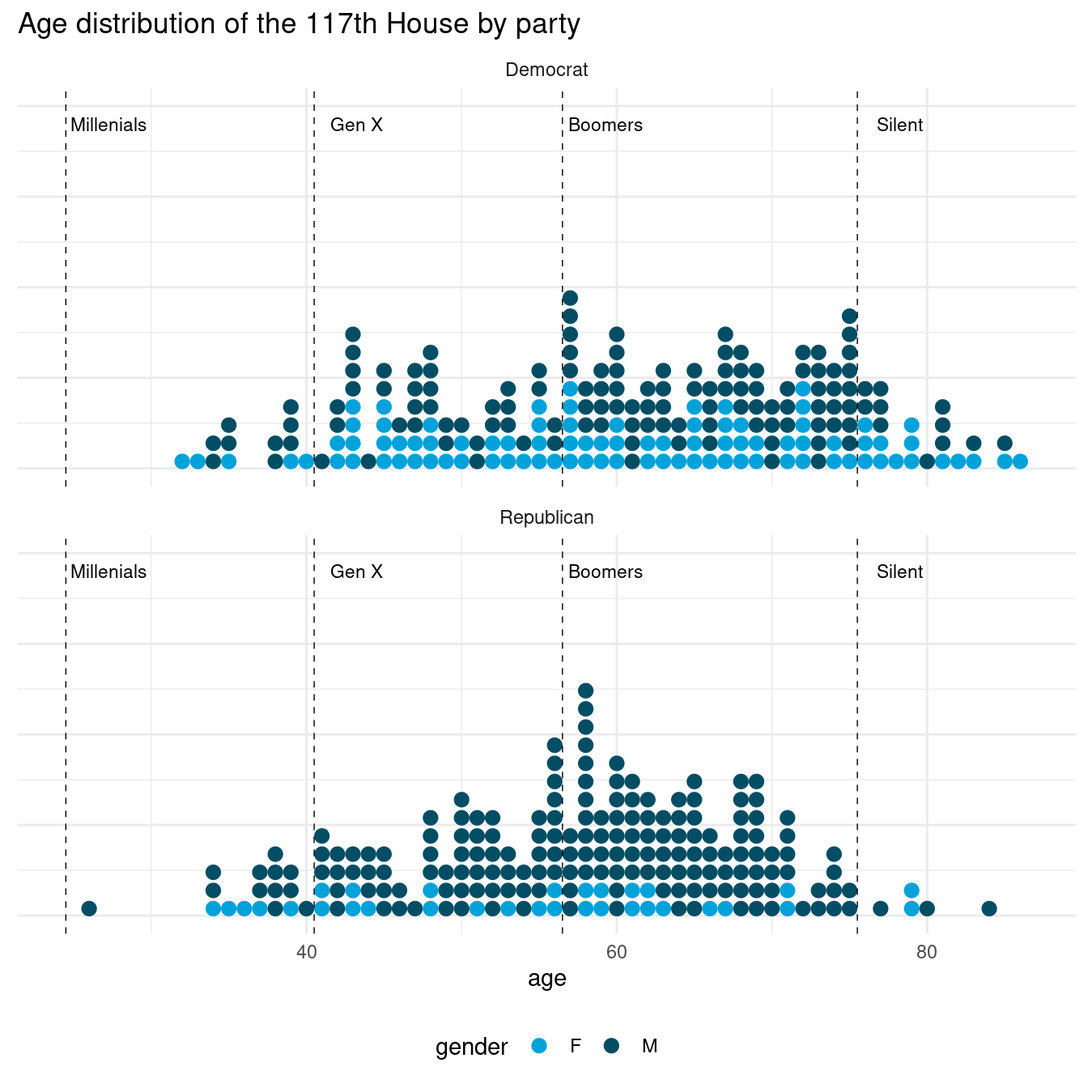
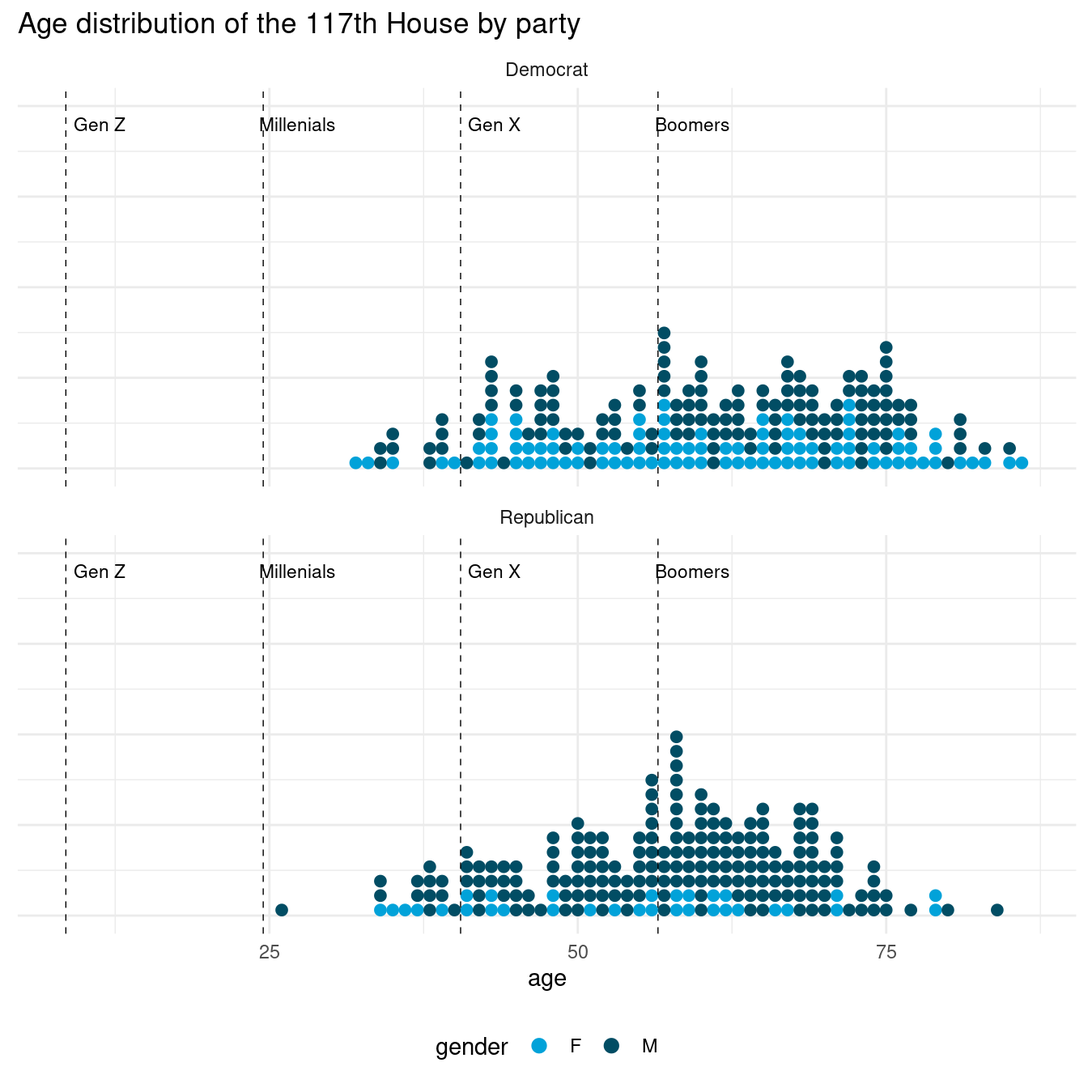
re

diff --git a/_site/posts/this-old-house/index.html b/_site/posts/this-old-house/index.html
@@ -123,9 +123,9 @@ code span.wa { color: #60a0b0; font-weight: bold; font-style: italic; } /* Warni
 <link rel="stylesheet" href="../../styles.css">
 <meta name="twitter:title" content="Jason Timm - this old house">
 <meta name="twitter:description" content="Generations in Congress">
-<meta name="twitter:image" content="https://www.jtimm.net/posts/this-old-house/preview2.png">
-<meta name="twitter:image-height" content="255">
-<meta name="twitter:image-width" content="1135">
+<meta name="twitter:image" content="https://www.jtimm.net/posts/this-old-house/preview1.png">
+<meta name="twitter:image-height" content="960">
+<meta name="twitter:image-width" content="1344">
 <meta name="twitter:card" content="summary_large_image">
 </head>
 
@@ -203,6 +203,7 @@ code span.wa { color: #60a0b0; font-weight: bold; font-style: italic; } /* Warni
   <ul>
   <li><a href="#current-us-lawmakers" id="toc-current-us-lawmakers" class="nav-link active" data-scroll-target="#current-us-lawmakers"> <span class="header-section-number">1</span> Current US lawmakers</a></li>
   <li><a href="#american-generations" id="toc-american-generations" class="nav-link" data-scroll-target="#american-generations"> <span class="header-section-number">2</span> American Generations</a></li>
+  <li><a href="#parliamentary-plot" id="toc-parliamentary-plot" class="nav-link" data-scroll-target="#parliamentary-plot"> <span class="header-section-number">3</span> Parliamentary Plot</a></li>
   </ul>
 </nav>
     </div>
@@ -214,7 +215,7 @@ code span.wa { color: #60a0b0; font-weight: bold; font-style: italic; } /* Warni
 
 <p><img src="preview2.png" class="preview-image img-fluid" style="width:100.0%"></p>
 <blockquote class="blockquote">
-<p>A quick look at age and generation distributions of members of the US House of Representatives.</p>
+<p>A quick look at age and generation distributions in the 117th US House of Representatives.</p>
 </blockquote>
 <hr>
 <section id="current-us-lawmakers" class="level2" data-number="1">
@@ -261,29 +262,35 @@ code span.wa { color: #60a0b0; font-weight: bold; font-style: italic; } /* Warni
 <section id="american-generations" class="level2" data-number="2">
 <h2 data-number="2" class="anchored" data-anchor-id="american-generations"><span class="header-section-number">2</span> American Generations</h2>
 <div class="cell">
-<div class="sourceCode cell-code" id="cb4"><pre class="sourceCode r code-with-copy"><code class="sourceCode r"><span id="cb4-1"><a href="#cb4-1" aria-hidden="true" tabindex="-1"></a>generation <span class="ot">&lt;-</span> <span class="fu">c</span>(<span class="st">'Greatest'</span>,</span>
-<span id="cb4-2"><a href="#cb4-2" aria-hidden="true" tabindex="-1"></a>                <span class="st">'Silent'</span>,</span>
-<span id="cb4-3"><a href="#cb4-3" aria-hidden="true" tabindex="-1"></a>                <span class="st">'Boomers'</span>,</span>
-<span id="cb4-4"><a href="#cb4-4" aria-hidden="true" tabindex="-1"></a>                <span class="st">'Gen X'</span>,</span>
-<span id="cb4-5"><a href="#cb4-5" aria-hidden="true" tabindex="-1"></a>                <span class="st">'Millenials'</span>,</span>
-<span id="cb4-6"><a href="#cb4-6" aria-hidden="true" tabindex="-1"></a>                <span class="st">'Gen Z'</span>,</span>
-<span id="cb4-7"><a href="#cb4-7" aria-hidden="true" tabindex="-1"></a>                <span class="st">'Post-Z'</span>)</span>
-<span id="cb4-8"><a href="#cb4-8" aria-hidden="true" tabindex="-1"></a></span>
-<span id="cb4-9"><a href="#cb4-9" aria-hidden="true" tabindex="-1"></a>start_yr <span class="ot">&lt;-</span> <span class="fu">c</span>(<span class="st">'1912-01-01'</span>,</span>
-<span id="cb4-10"><a href="#cb4-10" aria-hidden="true" tabindex="-1"></a>              <span class="st">'1928-01-01'</span>,</span>
-<span id="cb4-11"><a href="#cb4-11" aria-hidden="true" tabindex="-1"></a>              <span class="st">'1946-01-01'</span>,</span>
-<span id="cb4-12"><a href="#cb4-12" aria-hidden="true" tabindex="-1"></a>              <span class="st">'1965-01-01'</span>,</span>
-<span id="cb4-13"><a href="#cb4-13" aria-hidden="true" tabindex="-1"></a>              <span class="st">'1981-01-01'</span>,</span>
-<span id="cb4-14"><a href="#cb4-14" aria-hidden="true" tabindex="-1"></a>              <span class="st">'1997-01-01'</span>,</span>
-<span id="cb4-15"><a href="#cb4-15" aria-hidden="true" tabindex="-1"></a>              <span class="st">'2013-01-01'</span>)</span>
-<span id="cb4-16"><a href="#cb4-16" aria-hidden="true" tabindex="-1"></a></span>
-<span id="cb4-17"><a href="#cb4-17" aria-hidden="true" tabindex="-1"></a>end_yr <span class="ot">&lt;-</span> <span class="fu">c</span>(<span class="st">'1927-12-31'</span>,</span>
-<span id="cb4-18"><a href="#cb4-18" aria-hidden="true" tabindex="-1"></a>            <span class="st">'1945-12-31'</span>,</span>
-<span id="cb4-19"><a href="#cb4-19" aria-hidden="true" tabindex="-1"></a>            <span class="st">'1964-12-31'</span>,</span>
-<span id="cb4-20"><a href="#cb4-20" aria-hidden="true" tabindex="-1"></a>            <span class="st">'1980-12-31'</span>,</span>
-<span id="cb4-21"><a href="#cb4-21" aria-hidden="true" tabindex="-1"></a>            <span class="st">'1996-12-31'</span>,</span>
-<span id="cb4-22"><a href="#cb4-22" aria-hidden="true" tabindex="-1"></a>            <span class="st">'2012-12-31'</span>,</span>
-<span id="cb4-23"><a href="#cb4-23" aria-hidden="true" tabindex="-1"></a>            <span class="st">'2028-12-31'</span>)</span></code><button title="Copy to Clipboard" class="code-copy-button"><i class="bi"></i></button></pre></div>
+<div class="sourceCode cell-code" id="cb4"><pre class="sourceCode r code-with-copy"><code class="sourceCode r"><span id="cb4-1"><a href="#cb4-1" aria-hidden="true" tabindex="-1"></a>generation <span class="ot">&lt;-</span> <span class="fu">c</span>(<span class="co">#'Missionary',</span></span>
+<span id="cb4-2"><a href="#cb4-2" aria-hidden="true" tabindex="-1"></a>                <span class="co">#'Lost',</span></span>
+<span id="cb4-3"><a href="#cb4-3" aria-hidden="true" tabindex="-1"></a>                <span class="co">#'Greatest',</span></span>
+<span id="cb4-4"><a href="#cb4-4" aria-hidden="true" tabindex="-1"></a>                <span class="st">'Silent'</span>,</span>
+<span id="cb4-5"><a href="#cb4-5" aria-hidden="true" tabindex="-1"></a>                <span class="st">'Boomers'</span>,</span>
+<span id="cb4-6"><a href="#cb4-6" aria-hidden="true" tabindex="-1"></a>                <span class="st">'Gen X'</span>,</span>
+<span id="cb4-7"><a href="#cb4-7" aria-hidden="true" tabindex="-1"></a>                <span class="st">'Millenials'</span>,</span>
+<span id="cb4-8"><a href="#cb4-8" aria-hidden="true" tabindex="-1"></a>                <span class="st">'Gen Z'</span>,</span>
+<span id="cb4-9"><a href="#cb4-9" aria-hidden="true" tabindex="-1"></a>                <span class="st">'Post-Z'</span>)</span>
+<span id="cb4-10"><a href="#cb4-10" aria-hidden="true" tabindex="-1"></a></span>
+<span id="cb4-11"><a href="#cb4-11" aria-hidden="true" tabindex="-1"></a>start_yr <span class="ot">&lt;-</span> <span class="fu">c</span>(<span class="co">#'1860-01-01',</span></span>
+<span id="cb4-12"><a href="#cb4-12" aria-hidden="true" tabindex="-1"></a>              <span class="co">#'1883-01-01',</span></span>
+<span id="cb4-13"><a href="#cb4-13" aria-hidden="true" tabindex="-1"></a>              <span class="co">#'1901-01-01',</span></span>
+<span id="cb4-14"><a href="#cb4-14" aria-hidden="true" tabindex="-1"></a>              <span class="st">'1928-01-01'</span>,</span>
+<span id="cb4-15"><a href="#cb4-15" aria-hidden="true" tabindex="-1"></a>              <span class="st">'1946-01-01'</span>,</span>
+<span id="cb4-16"><a href="#cb4-16" aria-hidden="true" tabindex="-1"></a>              <span class="st">'1965-01-01'</span>,</span>
+<span id="cb4-17"><a href="#cb4-17" aria-hidden="true" tabindex="-1"></a>              <span class="st">'1981-01-01'</span>,</span>
+<span id="cb4-18"><a href="#cb4-18" aria-hidden="true" tabindex="-1"></a>              <span class="st">'1997-01-01'</span>,</span>
+<span id="cb4-19"><a href="#cb4-19" aria-hidden="true" tabindex="-1"></a>              <span class="st">'2013-01-01'</span>)</span>
+<span id="cb4-20"><a href="#cb4-20" aria-hidden="true" tabindex="-1"></a></span>
+<span id="cb4-21"><a href="#cb4-21" aria-hidden="true" tabindex="-1"></a>end_yr <span class="ot">&lt;-</span> <span class="fu">c</span>(<span class="co">#'1882-01-01',</span></span>
+<span id="cb4-22"><a href="#cb4-22" aria-hidden="true" tabindex="-1"></a>            <span class="co">#'1900-01-01',</span></span>
+<span id="cb4-23"><a href="#cb4-23" aria-hidden="true" tabindex="-1"></a>            <span class="co">#'1927-12-31',</span></span>
+<span id="cb4-24"><a href="#cb4-24" aria-hidden="true" tabindex="-1"></a>            <span class="st">'1945-12-31'</span>,</span>
+<span id="cb4-25"><a href="#cb4-25" aria-hidden="true" tabindex="-1"></a>            <span class="st">'1964-12-31'</span>,</span>
+<span id="cb4-26"><a href="#cb4-26" aria-hidden="true" tabindex="-1"></a>            <span class="st">'1980-12-31'</span>,</span>
+<span id="cb4-27"><a href="#cb4-27" aria-hidden="true" tabindex="-1"></a>            <span class="st">'1996-12-31'</span>,</span>
+<span id="cb4-28"><a href="#cb4-28" aria-hidden="true" tabindex="-1"></a>            <span class="st">'2012-12-31'</span>,</span>
+<span id="cb4-29"><a href="#cb4-29" aria-hidden="true" tabindex="-1"></a>            <span class="st">'2028-12-31'</span>)</span></code><button title="Copy to Clipboard" class="code-copy-button"><i class="bi"></i></button></pre></div>
 </div>
 <p>Note that zero members of Gen Z are old enough to serve in the US House of Representatives– and all Millenials now are.</p>
 <div class="cell">
@@ -309,42 +316,36 @@ code span.wa { color: #60a0b0; font-weight: bold; font-style: italic; } /* Warni
 </thead>
 <tbody>
 <tr class="odd">
-<td style="text-align: left;">Greatest</td>
-<td style="text-align: left;">1912-01-01</td>
-<td style="text-align: left;">1927-12-31</td>
-<td style="text-align: right;">94</td>
-</tr>
-<tr class="even">
 <td style="text-align: left;">Silent</td>
 <td style="text-align: left;">1928-01-01</td>
 <td style="text-align: left;">1945-12-31</td>
 <td style="text-align: right;">76</td>
 </tr>
-<tr class="odd">
+<tr class="even">
 <td style="text-align: left;">Boomers</td>
 <td style="text-align: left;">1946-01-01</td>
 <td style="text-align: left;">1964-12-31</td>
 <td style="text-align: right;">57</td>
 </tr>
-<tr class="even">
+<tr class="odd">
 <td style="text-align: left;">Gen X</td>
 <td style="text-align: left;">1965-01-01</td>
 <td style="text-align: left;">1980-12-31</td>
 <td style="text-align: right;">41</td>
 </tr>
-<tr class="odd">
+<tr class="even">
 <td style="text-align: left;">Millenials</td>
 <td style="text-align: left;">1981-01-01</td>
 <td style="text-align: left;">1996-12-31</td>
 <td style="text-align: right;">25</td>
 </tr>
-<tr class="even">
+<tr class="odd">
 <td style="text-align: left;">Gen Z</td>
 <td style="text-align: left;">1997-01-01</td>
 <td style="text-align: left;">2012-12-31</td>
 <td style="text-align: right;">9</td>
 </tr>
-<tr class="odd">
+<tr class="even">
 <td style="text-align: left;">Post-Z</td>
 <td style="text-align: left;">2013-01-01</td>
 <td style="text-align: left;">2028-12-31</td>
@@ -421,49 +422,90 @@ code span.wa { color: #60a0b0; font-weight: bold; font-style: italic; } /* Warni
 <h3 data-number="2.2" class="anchored" data-anchor-id="dotplot"><span class="header-section-number">2.2</span> Dotplot</h3>
 <div class="cell">
 <div class="sourceCode cell-code" id="cb8"><pre class="sourceCode r code-with-copy"><code class="sourceCode r"><span id="cb8-1"><a href="#cb8-1" aria-hidden="true" tabindex="-1"></a><span class="fu">library</span>(ggplot2)</span>
-<span id="cb8-2"><a href="#cb8-2" aria-hidden="true" tabindex="-1"></a>members <span class="sc">|&gt;</span></span>
-<span id="cb8-3"><a href="#cb8-3" aria-hidden="true" tabindex="-1"></a>  <span class="fu">filter</span>(chamber <span class="sc">==</span> <span class="st">'House'</span> <span class="sc">&amp;</span> <span class="sc">!</span><span class="fu">is.na</span>(age)) <span class="sc">|&gt;</span></span>
+<span id="cb8-2"><a href="#cb8-2" aria-hidden="true" tabindex="-1"></a>hs0 <span class="ot">&lt;-</span> members <span class="sc">|&gt;</span> <span class="fu">filter</span>(chamber <span class="sc">==</span> <span class="st">'House'</span> <span class="sc">&amp;</span> <span class="sc">!</span><span class="fu">is.na</span>(age)) <span class="sc">|&gt;</span> </span>
+<span id="cb8-3"><a href="#cb8-3" aria-hidden="true" tabindex="-1"></a>  <span class="fu">arrange</span>(generation)</span>
 <span id="cb8-4"><a href="#cb8-4" aria-hidden="true" tabindex="-1"></a> </span>
-<span id="cb8-5"><a href="#cb8-5" aria-hidden="true" tabindex="-1"></a>  <span class="fu">ggplot</span>() <span class="sc">+</span></span>
-<span id="cb8-6"><a href="#cb8-6" aria-hidden="true" tabindex="-1"></a>  <span class="fu">geom_dotplot</span>(<span class="fu">aes</span>(<span class="at">x =</span> age, </span>
-<span id="cb8-7"><a href="#cb8-7" aria-hidden="true" tabindex="-1"></a>                   <span class="at">color =</span> gender,</span>
-<span id="cb8-8"><a href="#cb8-8" aria-hidden="true" tabindex="-1"></a>                   <span class="at">fill =</span> gender,),</span>
-<span id="cb8-9"><a href="#cb8-9" aria-hidden="true" tabindex="-1"></a>               <span class="at">method=</span><span class="st">"histodot"</span>,</span>
-<span id="cb8-10"><a href="#cb8-10" aria-hidden="true" tabindex="-1"></a>               <span class="at">dotsize =</span> .<span class="dv">9</span>, </span>
-<span id="cb8-11"><a href="#cb8-11" aria-hidden="true" tabindex="-1"></a>               <span class="at">binpositions =</span> <span class="st">'all'</span>, </span>
-<span id="cb8-12"><a href="#cb8-12" aria-hidden="true" tabindex="-1"></a>               <span class="at">stackratio =</span> <span class="fl">1.3</span>, </span>
-<span id="cb8-13"><a href="#cb8-13" aria-hidden="true" tabindex="-1"></a>               <span class="at">stackgroups=</span><span class="cn">TRUE</span>,</span>
-<span id="cb8-14"><a href="#cb8-14" aria-hidden="true" tabindex="-1"></a>               <span class="at">binwidth =</span> <span class="dv">1</span>) <span class="sc">+</span> </span>
-<span id="cb8-15"><a href="#cb8-15" aria-hidden="true" tabindex="-1"></a>  </span>
-<span id="cb8-16"><a href="#cb8-16" aria-hidden="true" tabindex="-1"></a>  <span class="fu">geom_vline</span>(<span class="at">xintercept =</span> pgs<span class="sc">$</span>youngest[<span class="dv">2</span><span class="sc">:</span><span class="dv">5</span>] <span class="sc">-</span> <span class="fl">0.5</span>,</span>
-<span id="cb8-17"><a href="#cb8-17" aria-hidden="true" tabindex="-1"></a>             <span class="at">linetype =</span><span class="dv">2</span>, </span>
-<span id="cb8-18"><a href="#cb8-18" aria-hidden="true" tabindex="-1"></a>             <span class="at">color =</span> <span class="st">'black'</span>, </span>
-<span id="cb8-19"><a href="#cb8-19" aria-hidden="true" tabindex="-1"></a>             <span class="at">size =</span> .<span class="dv">25</span>) <span class="sc">+</span></span>
-<span id="cb8-20"><a href="#cb8-20" aria-hidden="true" tabindex="-1"></a>  </span>
-<span id="cb8-21"><a href="#cb8-21" aria-hidden="true" tabindex="-1"></a>  <span class="fu">geom_text</span>(<span class="at">data =</span> pgs[<span class="dv">2</span><span class="sc">:</span><span class="dv">5</span>,], </span>
-<span id="cb8-22"><a href="#cb8-22" aria-hidden="true" tabindex="-1"></a>            <span class="fu">aes</span>(<span class="at">x =</span> youngest <span class="sc">+</span> <span class="fl">2.25</span>, </span>
-<span id="cb8-23"><a href="#cb8-23" aria-hidden="true" tabindex="-1"></a>                <span class="at">y =</span> <span class="fl">0.95</span>,</span>
-<span id="cb8-24"><a href="#cb8-24" aria-hidden="true" tabindex="-1"></a>                <span class="at">label =</span> generation),</span>
-<span id="cb8-25"><a href="#cb8-25" aria-hidden="true" tabindex="-1"></a>            <span class="at">size =</span> <span class="dv">3</span>) <span class="sc">+</span></span>
-<span id="cb8-26"><a href="#cb8-26" aria-hidden="true" tabindex="-1"></a>  </span>
-<span id="cb8-27"><a href="#cb8-27" aria-hidden="true" tabindex="-1"></a>  <span class="fu">theme_minimal</span>() <span class="sc">+</span> </span>
-<span id="cb8-28"><a href="#cb8-28" aria-hidden="true" tabindex="-1"></a>  ggthemes<span class="sc">::</span><span class="fu">scale_fill_economist</span>() <span class="sc">+</span></span>
-<span id="cb8-29"><a href="#cb8-29" aria-hidden="true" tabindex="-1"></a>  ggthemes<span class="sc">::</span><span class="fu">scale_color_economist</span>() <span class="sc">+</span></span>
-<span id="cb8-30"><a href="#cb8-30" aria-hidden="true" tabindex="-1"></a>  </span>
-<span id="cb8-31"><a href="#cb8-31" aria-hidden="true" tabindex="-1"></a>  <span class="fu">facet_wrap</span>(<span class="sc">~</span>party, <span class="at">nrow =</span> <span class="dv">2</span>) <span class="sc">+</span></span>
-<span id="cb8-32"><a href="#cb8-32" aria-hidden="true" tabindex="-1"></a>  <span class="fu">theme</span>(<span class="at">legend.position =</span> <span class="st">"bottom"</span>,</span>
-<span id="cb8-33"><a href="#cb8-33" aria-hidden="true" tabindex="-1"></a>        <span class="at">axis.title.y=</span><span class="fu">element_blank</span>(),</span>
-<span id="cb8-34"><a href="#cb8-34" aria-hidden="true" tabindex="-1"></a>        <span class="at">axis.text.y=</span><span class="fu">element_blank</span>()) <span class="sc">+</span></span>
-<span id="cb8-35"><a href="#cb8-35" aria-hidden="true" tabindex="-1"></a>  <span class="co">#ylim (0, .5) +</span></span>
-<span id="cb8-36"><a href="#cb8-36" aria-hidden="true" tabindex="-1"></a>  </span>
-<span id="cb8-37"><a href="#cb8-37" aria-hidden="true" tabindex="-1"></a>  <span class="fu">labs</span>(<span class="at">title =</span> <span class="st">"Age distribution of the 117th House by party"</span>)</span></code><button title="Copy to Clipboard" class="code-copy-button"><i class="bi"></i></button></pre></div>
+<span id="cb8-5"><a href="#cb8-5" aria-hidden="true" tabindex="-1"></a>hs0 <span class="sc">|&gt;</span></span>
+<span id="cb8-6"><a href="#cb8-6" aria-hidden="true" tabindex="-1"></a>  <span class="fu">ggplot</span>() <span class="sc">+</span></span>
+<span id="cb8-7"><a href="#cb8-7" aria-hidden="true" tabindex="-1"></a>  <span class="fu">geom_dotplot</span>(<span class="fu">aes</span>(<span class="at">x =</span> age, </span>
+<span id="cb8-8"><a href="#cb8-8" aria-hidden="true" tabindex="-1"></a>                   <span class="at">color =</span> gender,</span>
+<span id="cb8-9"><a href="#cb8-9" aria-hidden="true" tabindex="-1"></a>                   <span class="at">fill =</span> gender,),</span>
+<span id="cb8-10"><a href="#cb8-10" aria-hidden="true" tabindex="-1"></a>               <span class="at">method=</span><span class="st">"histodot"</span>,</span>
+<span id="cb8-11"><a href="#cb8-11" aria-hidden="true" tabindex="-1"></a>               <span class="at">dotsize =</span> .<span class="dv">9</span>, </span>
+<span id="cb8-12"><a href="#cb8-12" aria-hidden="true" tabindex="-1"></a>               <span class="at">binpositions =</span> <span class="st">'all'</span>, </span>
+<span id="cb8-13"><a href="#cb8-13" aria-hidden="true" tabindex="-1"></a>               <span class="at">stackratio =</span> <span class="fl">1.3</span>, </span>
+<span id="cb8-14"><a href="#cb8-14" aria-hidden="true" tabindex="-1"></a>               <span class="at">stackgroups=</span><span class="cn">TRUE</span>,</span>
+<span id="cb8-15"><a href="#cb8-15" aria-hidden="true" tabindex="-1"></a>               <span class="at">binwidth =</span> <span class="dv">1</span>) <span class="sc">+</span> </span>
+<span id="cb8-16"><a href="#cb8-16" aria-hidden="true" tabindex="-1"></a>  </span>
+<span id="cb8-17"><a href="#cb8-17" aria-hidden="true" tabindex="-1"></a>  <span class="fu">geom_vline</span>(<span class="at">xintercept =</span> pgs<span class="sc">$</span>youngest[<span class="dv">2</span><span class="sc">:</span><span class="dv">5</span>] <span class="sc">-</span> <span class="fl">0.5</span>,</span>
+<span id="cb8-18"><a href="#cb8-18" aria-hidden="true" tabindex="-1"></a>             <span class="at">linetype =</span><span class="dv">2</span>, </span>
+<span id="cb8-19"><a href="#cb8-19" aria-hidden="true" tabindex="-1"></a>             <span class="at">color =</span> <span class="st">'black'</span>, </span>
+<span id="cb8-20"><a href="#cb8-20" aria-hidden="true" tabindex="-1"></a>             <span class="at">size =</span> .<span class="dv">25</span>) <span class="sc">+</span></span>
+<span id="cb8-21"><a href="#cb8-21" aria-hidden="true" tabindex="-1"></a>  </span>
+<span id="cb8-22"><a href="#cb8-22" aria-hidden="true" tabindex="-1"></a>  <span class="fu">geom_text</span>(<span class="at">data =</span> pgs[<span class="dv">2</span><span class="sc">:</span><span class="dv">5</span>,], </span>
+<span id="cb8-23"><a href="#cb8-23" aria-hidden="true" tabindex="-1"></a>            <span class="fu">aes</span>(<span class="at">x =</span> youngest <span class="sc">+</span> <span class="fl">2.25</span>, </span>
+<span id="cb8-24"><a href="#cb8-24" aria-hidden="true" tabindex="-1"></a>                <span class="at">y =</span> <span class="fl">0.95</span>,</span>
+<span id="cb8-25"><a href="#cb8-25" aria-hidden="true" tabindex="-1"></a>                <span class="at">label =</span> generation),</span>
+<span id="cb8-26"><a href="#cb8-26" aria-hidden="true" tabindex="-1"></a>            <span class="at">size =</span> <span class="dv">3</span>) <span class="sc">+</span></span>
+<span id="cb8-27"><a href="#cb8-27" aria-hidden="true" tabindex="-1"></a>  </span>
+<span id="cb8-28"><a href="#cb8-28" aria-hidden="true" tabindex="-1"></a>  <span class="fu">theme_minimal</span>() <span class="sc">+</span> </span>
+<span id="cb8-29"><a href="#cb8-29" aria-hidden="true" tabindex="-1"></a>  ggthemes<span class="sc">::</span><span class="fu">scale_fill_economist</span>() <span class="sc">+</span></span>
+<span id="cb8-30"><a href="#cb8-30" aria-hidden="true" tabindex="-1"></a>  ggthemes<span class="sc">::</span><span class="fu">scale_color_economist</span>() <span class="sc">+</span></span>
+<span id="cb8-31"><a href="#cb8-31" aria-hidden="true" tabindex="-1"></a>  </span>
+<span id="cb8-32"><a href="#cb8-32" aria-hidden="true" tabindex="-1"></a>  <span class="fu">facet_wrap</span>(<span class="sc">~</span>party, <span class="at">nrow =</span> <span class="dv">2</span>) <span class="sc">+</span></span>
+<span id="cb8-33"><a href="#cb8-33" aria-hidden="true" tabindex="-1"></a>  <span class="fu">theme</span>(<span class="at">legend.position =</span> <span class="st">"bottom"</span>,</span>
+<span id="cb8-34"><a href="#cb8-34" aria-hidden="true" tabindex="-1"></a>        <span class="at">axis.title.y=</span><span class="fu">element_blank</span>(),</span>
+<span id="cb8-35"><a href="#cb8-35" aria-hidden="true" tabindex="-1"></a>        <span class="at">axis.text.y=</span><span class="fu">element_blank</span>()) <span class="sc">+</span></span>
+<span id="cb8-36"><a href="#cb8-36" aria-hidden="true" tabindex="-1"></a>  <span class="co">#ylim (0, .5) +</span></span>
+<span id="cb8-37"><a href="#cb8-37" aria-hidden="true" tabindex="-1"></a>  </span>
+<span id="cb8-38"><a href="#cb8-38" aria-hidden="true" tabindex="-1"></a>  <span class="fu">labs</span>(<span class="at">title =</span> <span class="st">"Age distribution of the 117th House by party"</span>)</span></code><button title="Copy to Clipboard" class="code-copy-button"><i class="bi"></i></button></pre></div>
 <div class="cell-output-display">
 <p><img src="index_files/figure-html/unnamed-chunk-9-1.png" class="img-fluid" width="672"></p>
 </div>
 </div>
-
-
 </section>
+</section>
+<section id="parliamentary-plot" class="level2" data-number="3">
+<h2 data-number="3" class="anchored" data-anchor-id="parliamentary-plot"><span class="header-section-number">3</span> Parliamentary Plot</h2>
+<p>A real nice function below for drawing ‘parliamentary graphs’ – stolen from <a href="https://stackoverflow.com/questions/28917150/parliamentary-seats-graph-colors-and-labels">this SO post</a>.</p>
+<div class="cell">
+<div class="sourceCode cell-code" id="cb9"><pre class="sourceCode r code-with-copy"><code class="sourceCode r"><span id="cb9-1"><a href="#cb9-1" aria-hidden="true" tabindex="-1"></a>seats <span class="ot">&lt;-</span> <span class="cf">function</span>(N, M, <span class="at">r0 =</span> <span class="dv">2</span>){ </span>
+<span id="cb9-2"><a href="#cb9-2" aria-hidden="true" tabindex="-1"></a>  radii <span class="ot">&lt;-</span> <span class="fu">seq</span>(r0, <span class="dv">1</span>, <span class="at">len=</span>M)</span>
+<span id="cb9-3"><a href="#cb9-3" aria-hidden="true" tabindex="-1"></a>  counts <span class="ot">&lt;-</span> <span class="fu">numeric</span>(M)</span>
+<span id="cb9-4"><a href="#cb9-4" aria-hidden="true" tabindex="-1"></a>  pts <span class="ot">=</span> <span class="fu">do.call</span>(rbind,</span>
+<span id="cb9-5"><a href="#cb9-5" aria-hidden="true" tabindex="-1"></a>            <span class="fu">lapply</span>(<span class="dv">1</span><span class="sc">:</span>M, <span class="cf">function</span>(i){</span>
+<span id="cb9-6"><a href="#cb9-6" aria-hidden="true" tabindex="-1"></a>              counts[i] <span class="ot">&lt;&lt;-</span> <span class="fu">round</span>(N<span class="sc">*</span>radii[i]<span class="sc">/</span><span class="fu">sum</span>(radii[i<span class="sc">:</span>M]))</span>
+<span id="cb9-7"><a href="#cb9-7" aria-hidden="true" tabindex="-1"></a>              theta <span class="ot">&lt;-</span> <span class="fu">seq</span>(<span class="dv">0</span>, pi, <span class="at">len =</span> counts[i])</span>
+<span id="cb9-8"><a href="#cb9-8" aria-hidden="true" tabindex="-1"></a>              N <span class="ot">&lt;&lt;-</span> N <span class="sc">-</span> counts[i]</span>
+<span id="cb9-9"><a href="#cb9-9" aria-hidden="true" tabindex="-1"></a>              <span class="fu">data.frame</span>(<span class="at">x=</span>radii[i]<span class="sc">*</span><span class="fu">cos</span>(theta), <span class="at">y=</span>radii[i]<span class="sc">*</span><span class="fu">sin</span>(theta), <span class="at">r=</span>i,</span>
+<span id="cb9-10"><a href="#cb9-10" aria-hidden="true" tabindex="-1"></a>                         <span class="at">theta=</span>theta)}))</span>
+<span id="cb9-11"><a href="#cb9-11" aria-hidden="true" tabindex="-1"></a>   pts <span class="ot">=</span> pts[<span class="fu">order</span>(<span class="sc">-</span>pts<span class="sc">$</span>theta,<span class="sc">-</span>pts<span class="sc">$</span>r),]</span>
+<span id="cb9-12"><a href="#cb9-12" aria-hidden="true" tabindex="-1"></a>   pts}</span></code><button title="Copy to Clipboard" class="code-copy-button"><i class="bi"></i></button></pre></div>
+</div>
+<div class="cell">
+<div class="sourceCode cell-code" id="cb10"><pre class="sourceCode r code-with-copy"><code class="sourceCode r"><span id="cb10-1"><a href="#cb10-1" aria-hidden="true" tabindex="-1"></a>sx <span class="ot">&lt;-</span> <span class="fu">seats</span>(<span class="dv">430</span>,<span class="dv">8</span>) <span class="sc">|&gt;</span> <span class="fu">mutate</span>(<span class="at">Generation =</span> hs0<span class="sc">$</span>generation)</span>
+<span id="cb10-2"><a href="#cb10-2" aria-hidden="true" tabindex="-1"></a></span>
+<span id="cb10-3"><a href="#cb10-3" aria-hidden="true" tabindex="-1"></a>sx <span class="sc">|&gt;</span></span>
+<span id="cb10-4"><a href="#cb10-4" aria-hidden="true" tabindex="-1"></a>  <span class="fu">ggplot</span>() <span class="sc">+</span></span>
+<span id="cb10-5"><a href="#cb10-5" aria-hidden="true" tabindex="-1"></a>  <span class="fu">geom_point</span>(<span class="fu">aes</span>(x, y, </span>
+<span id="cb10-6"><a href="#cb10-6" aria-hidden="true" tabindex="-1"></a>                 <span class="at">color =</span> Generation), </span>
+<span id="cb10-7"><a href="#cb10-7" aria-hidden="true" tabindex="-1"></a>             <span class="at">size =</span> <span class="fl">3.5</span>) <span class="sc">+</span></span>
+<span id="cb10-8"><a href="#cb10-8" aria-hidden="true" tabindex="-1"></a>  ggthemes<span class="sc">::</span><span class="fu">scale_color_stata</span>()<span class="sc">+</span></span>
+<span id="cb10-9"><a href="#cb10-9" aria-hidden="true" tabindex="-1"></a>  <span class="fu">theme_minimal</span>()<span class="sc">+</span></span>
+<span id="cb10-10"><a href="#cb10-10" aria-hidden="true" tabindex="-1"></a>  <span class="fu">theme</span>(<span class="at">axis.title.x=</span><span class="fu">element_blank</span>(),</span>
+<span id="cb10-11"><a href="#cb10-11" aria-hidden="true" tabindex="-1"></a>        <span class="at">axis.text.x=</span><span class="fu">element_blank</span>(),</span>
+<span id="cb10-12"><a href="#cb10-12" aria-hidden="true" tabindex="-1"></a>        <span class="at">axis.title.y=</span><span class="fu">element_blank</span>(),</span>
+<span id="cb10-13"><a href="#cb10-13" aria-hidden="true" tabindex="-1"></a>        <span class="at">axis.text.y=</span><span class="fu">element_blank</span>(),</span>
+<span id="cb10-14"><a href="#cb10-14" aria-hidden="true" tabindex="-1"></a>        <span class="at">legend.position =</span> <span class="st">'bottom'</span>,</span>
+<span id="cb10-15"><a href="#cb10-15" aria-hidden="true" tabindex="-1"></a>        <span class="at">plot.title =</span> <span class="fu">element_text</span>(<span class="at">size=</span><span class="dv">12</span>)</span>
+<span id="cb10-16"><a href="#cb10-16" aria-hidden="true" tabindex="-1"></a>        )  <span class="sc">+</span></span>
+<span id="cb10-17"><a href="#cb10-17" aria-hidden="true" tabindex="-1"></a>  <span class="fu">labs</span>(<span class="at">title=</span><span class="st">"Composition of 117th US House by Generation"</span>) </span></code><button title="Copy to Clipboard" class="code-copy-button"><i class="bi"></i></button></pre></div>
+<div class="cell-output-display">
+<p><img src="index_files/figure-html/unnamed-chunk-11-1.png" class="img-fluid" width="672"></p>
+</div>
+</div>
+
+
 </section>
 
 </main> <!-- /main -->
